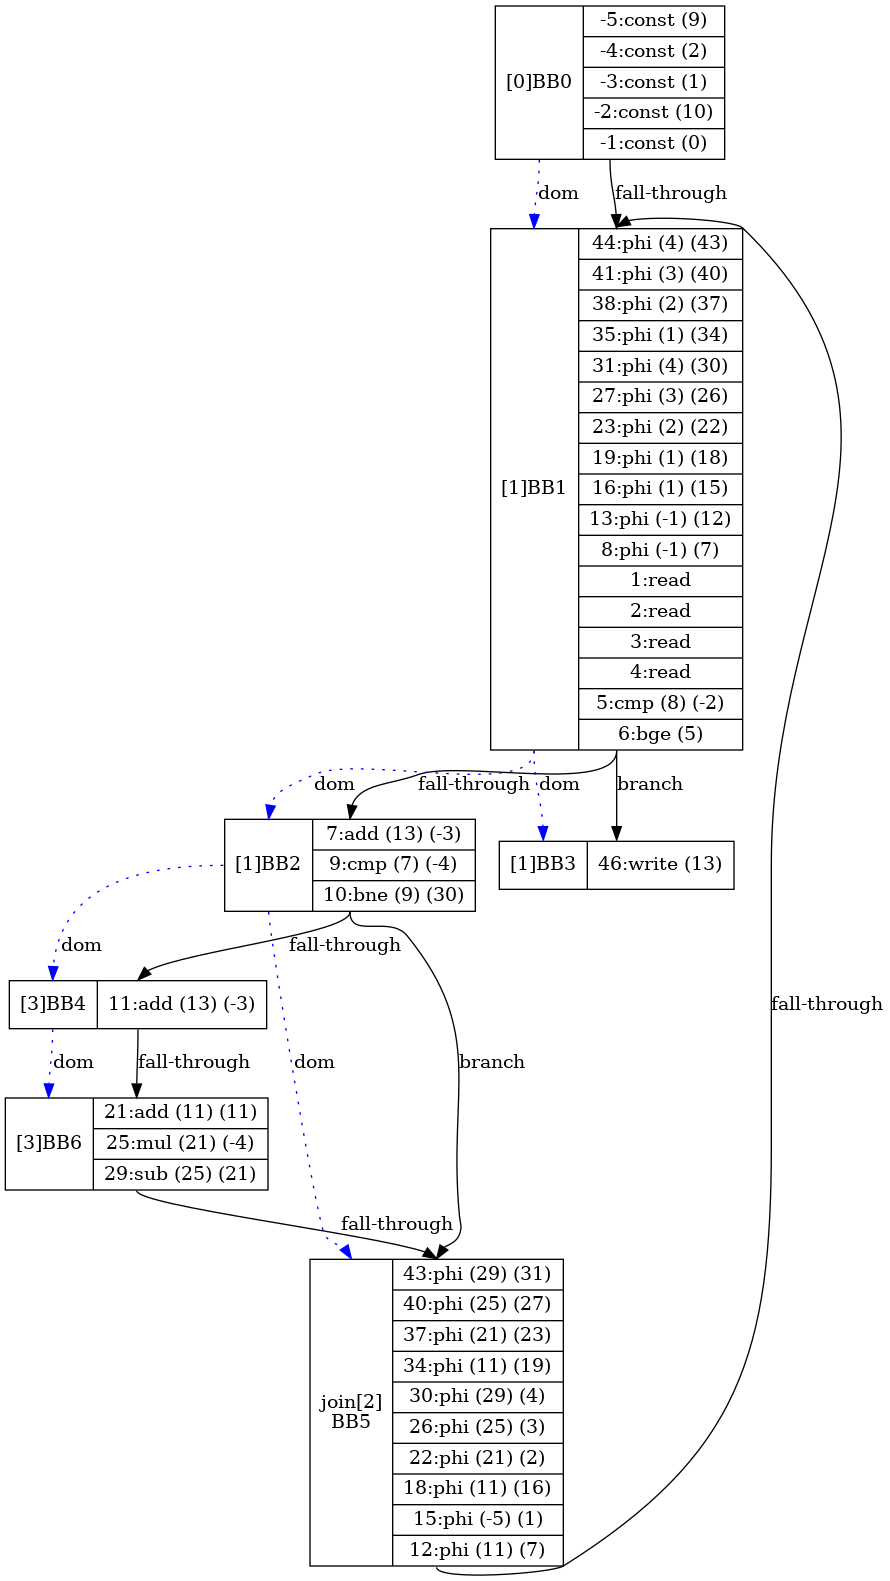
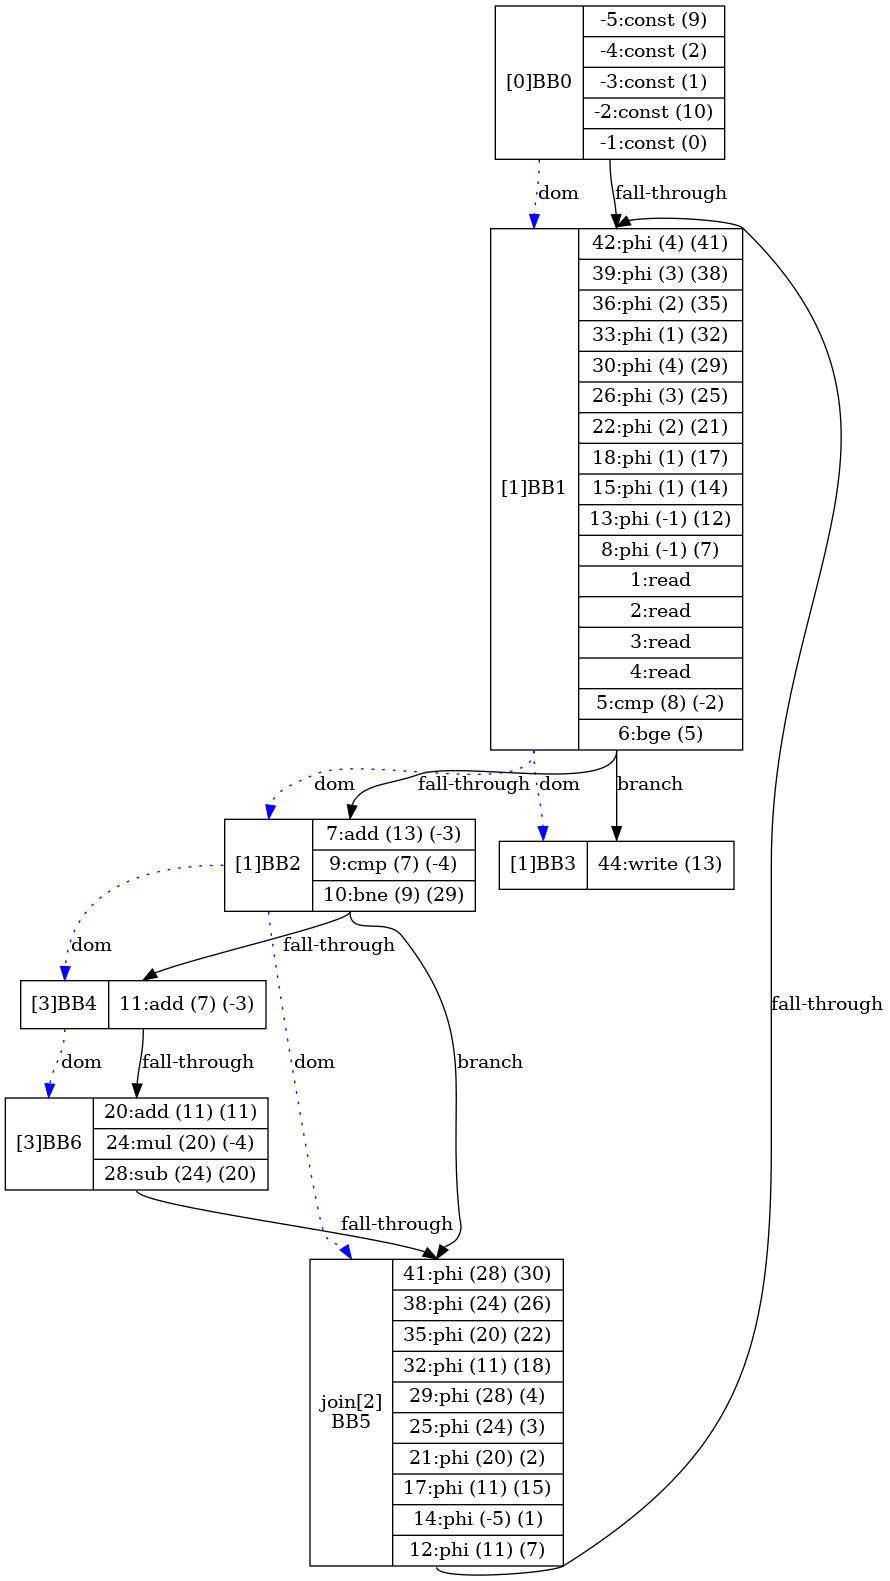
todo - resume testing [while_if1.ty]; [new modification] - [Parser.hpp - set_operand()] no longer creating new-SSA for (int opNo == 6), since it may cause issues with propagateDown() later...CONTINUE STEPPING THROUGH GDB

diff --git a/src/Parser.hpp b/src/Parser.hpp
@@ -337,7 +337,13 @@ public:
         if (dupe) { // if setting operand does nothing we should just do nothing
             return s;
         }
-        SSA *res = new SSA(*s);
+
+        SSA *res = nullptr;
+        if (opNo == 6) {
+            res = s;
+        } else {
+            res = new SSA (*s);
+        }
         
         // #ifdef DEBUG
         //     std::cout << "just created SSA: [" << res->toString() << "]" << std::endl;
@@ -600,8 +606,15 @@ public:
         #ifdef DEBUG
             std::cout << "in propagateDown(currBB[" << std::to_string(curr->blockNum) << "]; ident=" << SymbolTable::symbol_table.at(ident) << ", phi_ident=" << BasicBlock::ssa_table.at(ident_val)->toString() << ", oldVal (SSA) = " << oldVal->toString() << ", ); curr(BB) looks like: " << std::endl << curr->toString() << std::endl;
         #endif
-        if (!first) {
+         if (!first) {
             seen.push_back(curr);
+        }
+
+        if (!first && this->currBB->compare(curr)) {
+            #ifdef DEBUG
+                std::cout << "returning: in a loop! found startBB" << std::endl;
+            #endif
+            return;
         }
 
         if (curr->varVals.find(ident) != curr->varVals.end()) {
@@ -719,6 +732,9 @@ public:
                             if (curr->parent && BasicBlock::ssa_table.at(curr->parent->varVals.at(ident))->compare(prevVal->get_operand1())) {
                                 if (prevVal->get_operand1()->compare(BasicBlock::ssa_table.at(ident_val)) == false) {
                                     prevVal = this->set_operand(2, prevVal, BasicBlock::ssa_table.at(ident_val), ident);
+                                    #ifdef DEBUG
+                                        std::cout << "this path was traversed (set op 2) and prevVal has been updated to: " << prevVal->toString() << std::endl;
+                                    #endif
                                 }
                                 // prevVal->set_operand1(BasicBlock::ssa_table.at(ident_val));
                                 // return; // [12.16.2024]: we can return here since we assume phi is already propagated, and we'rre only updating the [x] tied to [this->ssa obj]
@@ -726,6 +742,9 @@ public:
                             if (curr->parent2 && BasicBlock::ssa_table.at(curr->parent2->varVals.at(ident))->compare(prevVal->get_operand2())) {
                                 if (prevVal->get_operand2()->compare(BasicBlock::ssa_table.at(ident_val)) == false) {
                                     prevVal = this->set_operand(1, prevVal, BasicBlock::ssa_table.at(ident_val), ident);
+                                    #ifdef DEBUG
+                                        std::cout << "this path was traversed (set op 1) and prevVal has been updated to: " << prevVal->toString() << std::endl;
+                                    #endif
                                 }
                                 // prevVal->set_operand1(BasicBlock::ssa_table.at(ident_val));
                                 // return; // [12.16.2024]: we can return here since we assume phi is already propagated, and we'rre only updating the [x] tied to [this->ssa obj]
@@ -739,11 +758,12 @@ public:
                             std::cout << BasicBlock::ssa_table.at(ident_val)->toString() << std::endl;
                         #endif
 
-                        if (this->currBB->findSSA(prevVal)) {
+                        // if (this->currBB->findSSA(prevVal)) {
+                        if (curr->findSSA(prevVal)) {
                             // [12.26.2024]: this hsould be the end of [propagateDown()] for this branch right?
                             // - since prevVal was created in [this->currBB], we can assume future BB's that're DOM by this->currBB will either use that val or update it
                             #ifdef DEBUG
-                                std::cout << "prevVal was created in [this->currBB]; looks like: " << std::endl << this->currBB->toString() << std::endl;
+                                std::cout << "prevVal was created in [curr]; looks like: " << std::endl << curr->toString() << std::endl;
                             #endif
                             return; // stub
                         }
@@ -770,13 +790,6 @@ public:
         #ifdef DEBUG
             std::cout << "after update curr looks like: " << std::endl << curr->toString() << std::endl;
         #endif
-
-        if (!first && this->currBB->compare(curr)) {
-            #ifdef DEBUG
-                std::cout << "returning: in a loop! found startBB" << std::endl;
-            #endif
-            return;
-        }
 
         if ((curr->child) && (std::find(seen.begin(), seen.end(), curr->child) == seen.end())) {
             propagateDown(curr->child, ident, oldVal, ident_val, false, seen, updateIf);
